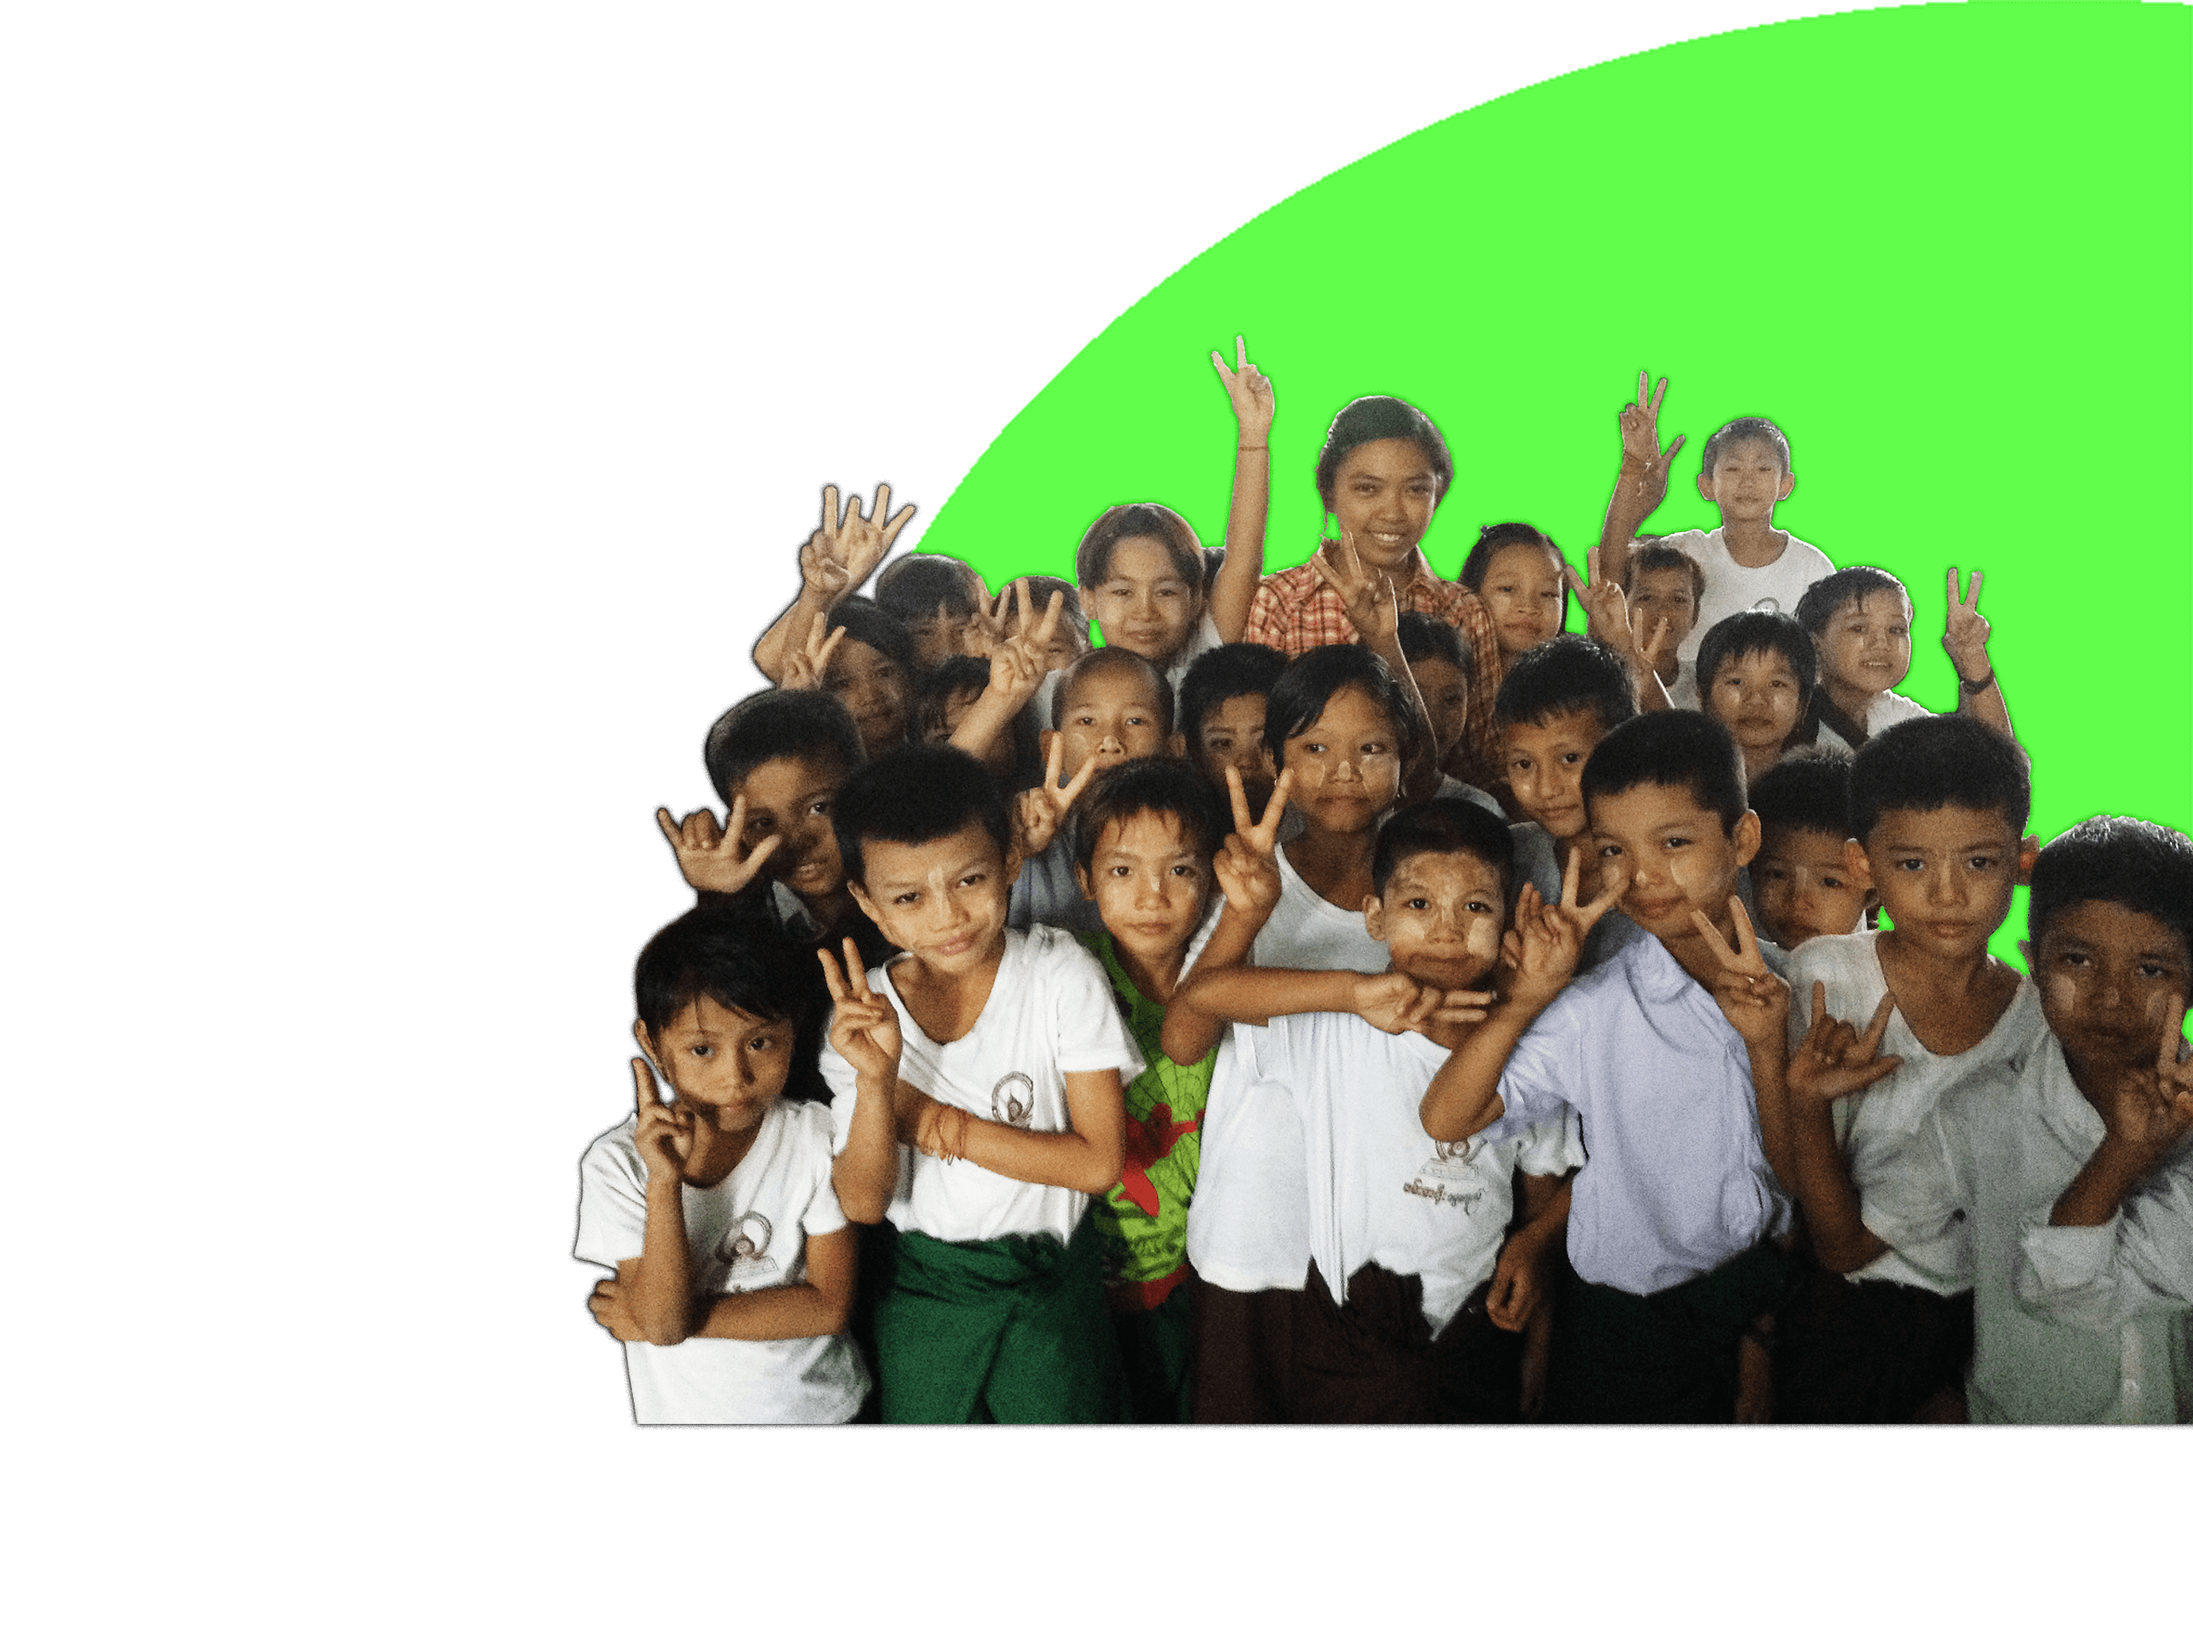
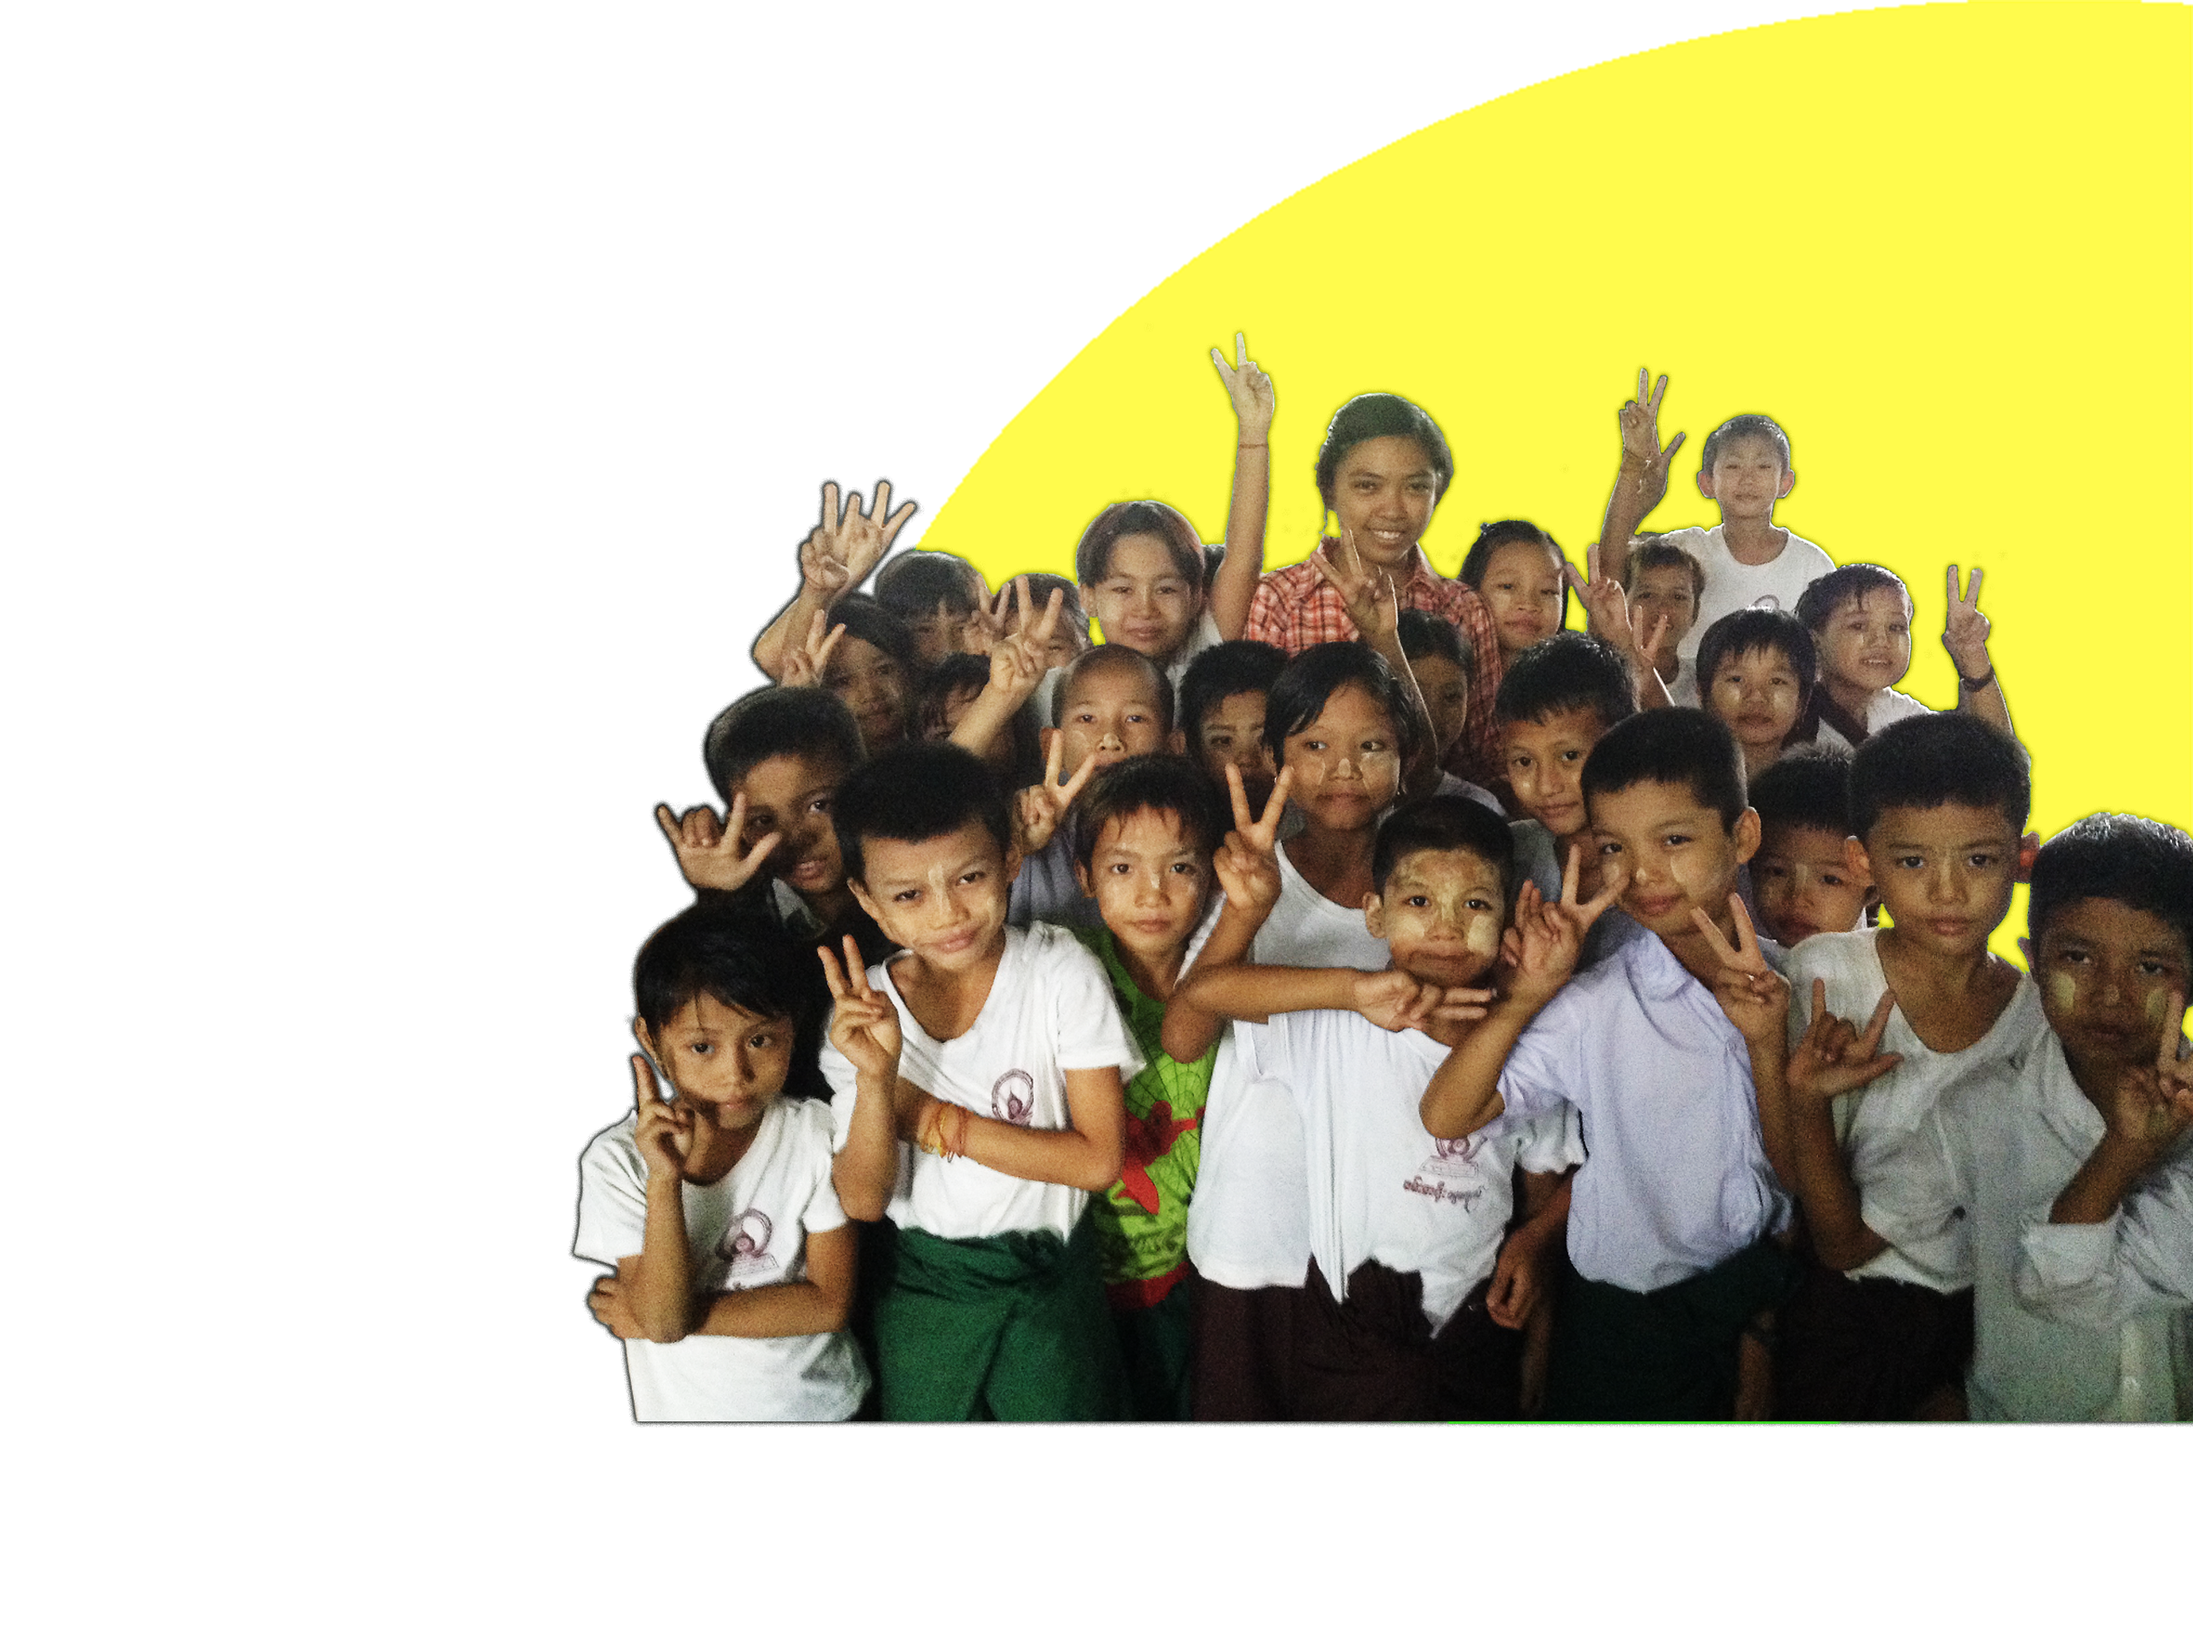
fixed image and ebm page link with main page
change bg image color
repair some img
ebm page link with main index

diff --git a/public/index.html b/public/index.html
@@ -112,9 +112,20 @@
               </div>
             </div>
             <div class="row flex-center h-100">
-              <div class="col-xl-9">
+              <div class="col-xl-12">
                 <div class="row justify-content-center">
-                  <div class="col-md-4 mb-4">
+                  <div class="col-md-3 mb-4">
+                    <div class="card h-100 shadow card-span"><img class="card-img-top" src="assets/img/gallery/news-4.png" alt="news" />
+                      <div class="card-body">
+                        <svg class="bi bi-calendar2 me-2" xmlns="http://www.w3.org/2000/svg" width="12" height="12" fill="currentColor" viewBox="0 0 16 16">
+                          <path d="M3.5 0a.5.5 0 0 1 .5.5V1h8V.5a.5.5 0 0 1 1 0V1h1a2 2 0 0 1 2 2v11a2 2 0 0 1-2 2H2a2 2 0 0 1-2-2V3a2 2 0 0 1 2-2h1V.5a.5.5 0 0 1 .5-.5zM2 2a1 1 0 0 0-1 1v11a1 1 0 0 0 1 1h12a1 1 0 0 0 1-1V3a1 1 0 0 0-1-1H2z"></path>
+                          <path d="M2.5 4a.5.5 0 0 1 .5-.5h10a.5.5 0 0 1 .5.5v1a.5.5 0 0 1-.5.5H3a.5.5 0 0 1-.5-.5V4z"> </path>
+                        </svg><span class="fs--1">1 January 2023</span>
+                        <h5 class="fs-lg-1 my-3">Get started with Education-based Mertorship Program</h5>
+                      </div>
+                    </div>
+                  </div>
+                  <div class="col-md-3 mb-4">
                     <div class="card h-100 shadow card-span"><img class="card-img-top" src="assets/img/gallery/news-1.JPG" alt="news" />
                       <div class="card-body">
                         <svg class="bi bi-calendar2 me-2" xmlns="http://www.w3.org/2000/svg" width="12" height="12" fill="currentColor" viewBox="0 0 16 16">
@@ -125,7 +136,7 @@
                       </div>
                     </div>
                   </div>
-                  <div class="col-md-4 mb-4">
+                  <div class="col-md-3 mb-4">
                     <div class="card h-100 shadow card-span"><img class="card-img-top" src="assets/img/gallery/news-2.png" alt="news" />
                       <div class="card-body">
                         <svg class="bi bi-calendar2 me-2" xmlns="http://www.w3.org/2000/svg" width="12" height="12" fill="currentColor" viewBox="0 0 16 16">
@@ -136,7 +147,7 @@
                       </div>
                     </div>
                   </div>
-                  <div class="col-md-4 mb-4">
+                  <div class="col-md-3 mb-4">
                     <div class="card h-100 shadow card-span"><img class="card-img-top" src="assets/img/gallery/news-3.png" alt="news" />
                       <div class="card-body">
                         <svg class="bi bi-calendar2 me-2" xmlns="http://www.w3.org/2000/svg" width="12" height="12" fill="currentColor" viewBox="0 0 16 16">
@@ -180,7 +191,7 @@
           <div class="row flex-center h-100">
             <div class="col-xl-9">
               <div class="row justify-content-center">
-                <div class="col-md-5 mb-5">
+                <div class="col-md-4 mb-4">
                   <div class="card h-100 shadow px-4 px-md-2 px-lg-3 card-span pt-4">
                     <div class="text-center text-md-start card-hover"><img class="ps-3 icons" src="assets/img/icons/career.png" height="60" alt="services" />
                       <div class="card-body">
@@ -193,7 +204,7 @@
                     </div>
                   </div>
                 </div>
-                <div class="col-md-5 mb-5">
+                <div class="col-md-4 mb-4">
                   <div class="card h-100 shadow px-4 px-md-2 px-lg-3 card-span pt-4">
                     <div class="text-center text-md-start card-hover"><img class="ps-3 icons" src="assets/img/icons/admission.png" height="60" alt="services" />
                       <div class="card-body">
@@ -206,7 +217,7 @@
                     </div>
                   </div>
                 </div>
-                <div class="col-md-5 mb-5">
+                <div class="col-md-4 mb-4">
                   <div class="card h-100 shadow px-4 px-md-2 px-lg-3 card-span pt-4">
                     <div class="text-center text-md-start card-hover"><img class="ps-3 icons" src="assets/img/icons/visa.png" height="60" alt="services" />
                       <div class="card-body">
@@ -219,12 +230,25 @@
                     </div>
                   </div>
                 </div>
-                <div class="col-md-5 mb-5">
+                <div class="col-md-4 mb-4">
                   <div class="card h-100 shadow px-4 px-md-2 px-lg-3 card-span pt-4">
                     <div class="text-center text-md-start card-hover"><img class="ps-3 icons" src="assets/img/icons/visa.png" height="60" alt="services" />
                       <div class="card-body">
                         <h6 class="fw-light fs-1 heading-color">volunteers</h6>
                         <p class="mt-3 mb-md-0 mb-lg-3">Students from 5 Monastic Schools, 3 Basic Education High Schools from Nyaungdon, Ayeyarwaddy Division, Myanmar volunteers list.</p><a class="btn btn-lg ps-0 pe-3 text-primary" href="volunteers.html" role="button">Learn more
+                          <svg class="bi bi-arrow-right-short" xmlns="http://www.w3.org/2000/svg" width="25" height="25" fill="currentColor" viewBox="0 0 16 16">
+                            <path fill-rule="evenodd" d="M4 8a.5.5 0 0 1 .5-.5h5.793L8.146 5.354a.5.5 0 1 1 .708-.708l3 3a.5.5 0 0 1 0 .708l-3 3a.5.5 0 0 1-.708-.708L10.293 8.5H4.5A.5.5 0 0 1 4 8z"></path>
+                          </svg></a>
+                      </div>
+                    </div>
+                  </div>
+                </div>
+                <div class="col-md-4 mb-4">
+                  <div class="card h-100 shadow px-4 px-md-2 px-lg-3 card-span pt-4">
+                    <div class="text-center text-md-start card-hover"><img class="ps-3 icons" src="assets/img/icons/departure.png" height="60" alt="services" />
+                      <div class="card-body">
+                        <h6 class="fw-light fs-1 heading-color">2023 pilot program</h6>
+                        <p class="mt-3 mb-md-0 mb-lg-3">Education-based Mertorship Program that support and guidance for youths in Myanmar</p><a class="btn btn-lg ps-0 pe-3 text-primary" href="ebm_en.html" role="button">Learn more
                           <svg class="bi bi-arrow-right-short" xmlns="http://www.w3.org/2000/svg" width="25" height="25" fill="currentColor" viewBox="0 0 16 16">
                             <path fill-rule="evenodd" d="M4 8a.5.5 0 0 1 .5-.5h5.793L8.146 5.354a.5.5 0 1 1 .708-.708l3 3a.5.5 0 0 1 0 .708l-3 3a.5.5 0 0 1-.708-.708L10.293 8.5H4.5A.5.5 0 0 1 4 8z"></path>
                           </svg></a>
